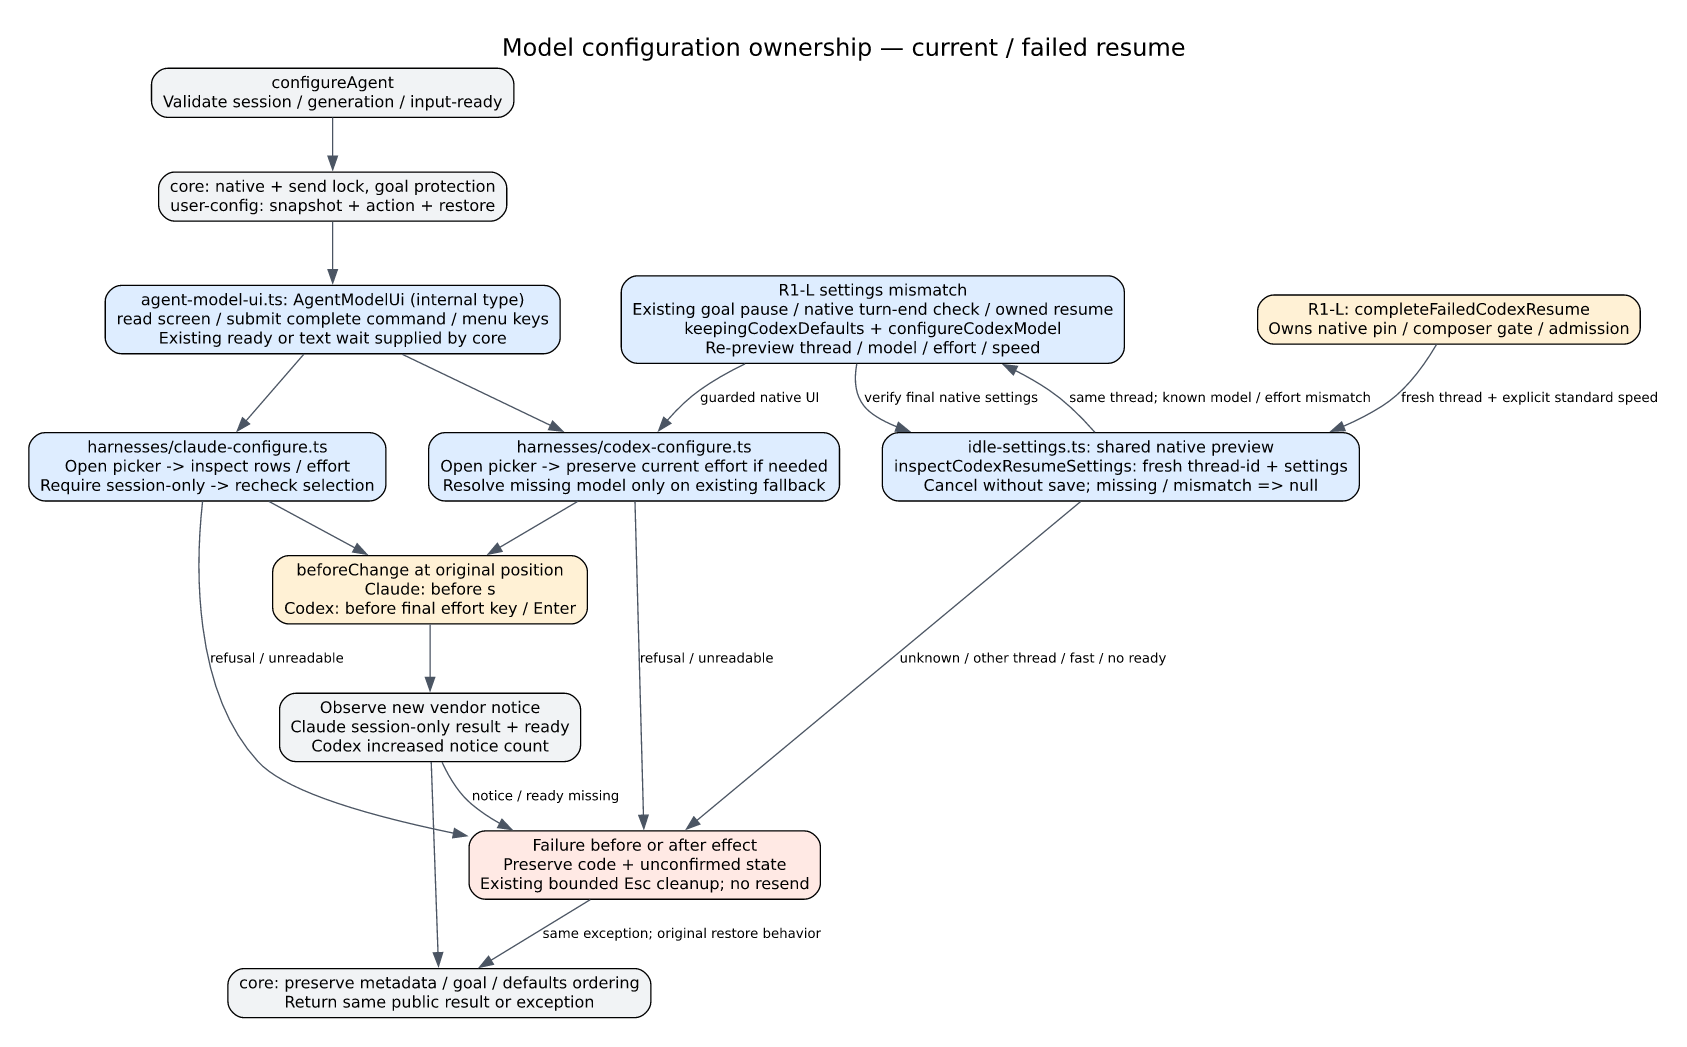
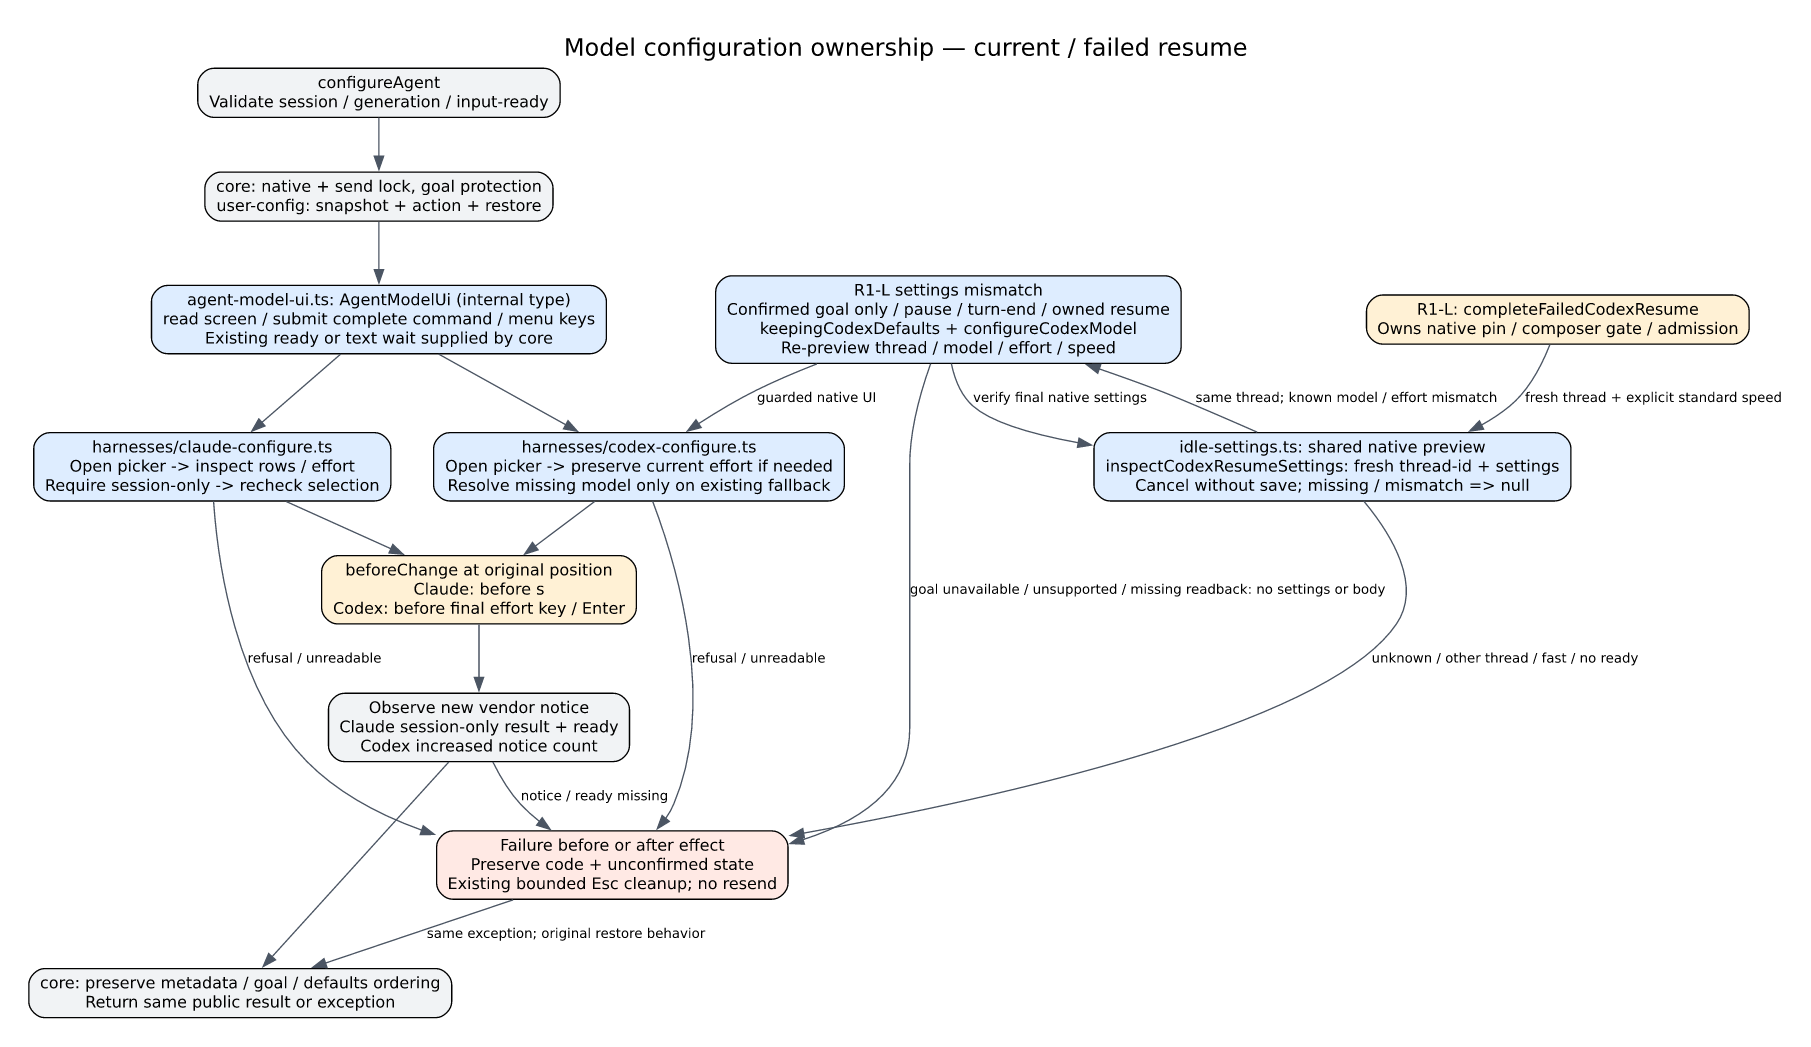
fix: require confirmed goal before failed resume settings repair

diff --git a/src/core.ts b/src/core.ts
@@ -6786,10 +6786,14 @@ async function completeFailedCodexResume(meta: AgentMetadata, readyTimeout: numb
     };
     if (!settingsDiffer) return complete();
     return configureWithPausedGoal({
-      goal: (action, expected) => {
+      goal: async (action, expected) => {
         verify();
-        return agentGoalInContext({ session_id: name, launch_id: meta.launch_id, action,
+        const result = await agentGoalInContext({ session_id: name, launch_id: meta.launch_id, action,
           expected_thread_id: recipe.vendor_session_id }, "user", expected, true);
+        verify();
+        if (action === "inspect" && (result.availability !== "available" || result.readback !== "confirmed"
+          || result.schema !== "aiterm.agent-goal-result.v1" || result.goal === undefined)) throw unavailable();
+        return result;
       },
       waitForTurnEnd: async () => {
         verify();
